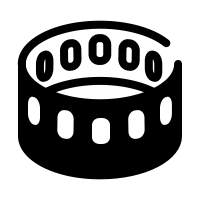
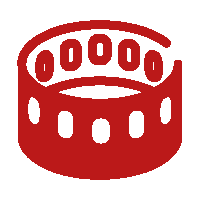
button color on equalizer animation

diff --git a/src/lib/components/playlist/playlist.jsx b/src/lib/components/playlist/playlist.jsx
@@ -13,7 +13,7 @@ class Playlist extends React.Component {
        return (
          <div className="playlistScreen" style={{left: '0vw', transition: 'left 0.5s'}}>
            <div className="playlistHeader">
-             <img src="images/animationChange.png" onClick={ this.props.chnageAnimation } />
+             <img src="images/animationChange.png" onClick={ this.props.changeAnimation } />
              <ClearPlaylist styleImg={{width: '4vw', height: '5vh'}} clickHandler={ this.props.clearPlaylistClickHandler } />
            </div>
            <PlaylistContent playlist={ this.props.playlist } clickHandler= { (i, bool)=>{
@@ -37,7 +37,7 @@ class Playlist extends React.Component {
       <div className="playlistScreen" style={{left: '-100vw', transition: 'left 0.5s'}}>
         <div className="playlistHeader">
           <p className="playlistText">Playlist</p>
-          <img src="images/animationChange.png" onClick={ this.props.chnageAnimation } />
+          <img src="images/animationChange.png" onClick={ this.props.changeAnimation } />
           <ClearPlaylist styleImg={{width: '4vw', height: '5vh'}} clickHandler={ this.props.clearPlaylistClickHandler } />
         </div>
         <PlaylistContent playlist={ this.props.playlist } clickHandler= { (i, bool)=>{

diff --git a/src/lib/components/front/playPauseButton.jsx b/src/lib/components/front/playPauseButton.jsx
@@ -9,6 +9,8 @@ class PlayPauseButton extends React.Component {
     }
     this.playSrc = 'images/play.png';
     this.pauseSrc = 'images/pause.png';
+    this.playSrcWhite = 'images/playWhite.png';
+    this.pauseSrcWhite = 'images/pauseWhite.png';
   }
   componentWillReceiveProps(nextProps){
     this.setState({playing: nextProps.playing});
@@ -23,6 +25,16 @@ class PlayPauseButton extends React.Component {
     this.props.playingPassFunc(!this.state.playing);
   }
   render(){
+    if (window.animationNumber === 2){
+      if (this.state.playing){
+        return(
+          <img className = 'playPauseButton' src={ this.pauseSrcWhite } onClick={ this.clickHandler }/>
+        )
+      }
+      return(
+        <img className = 'playPauseButton' src={ this.playSrcWhite } onClick={ this.clickHandler } />
+      )
+    }
     if (this.state.playing){
       return(
         <img style={{filter: `hue-rotate(${this.props.filterDeg}deg)`}} className = 'playPauseButton' src={ this.pauseSrc } onClick={ this.clickHandler }/>

diff --git a/src/lib/components/frontComps.jsx b/src/lib/components/frontComps.jsx
@@ -202,7 +202,7 @@ class FrontComps extends React.Component {
                   } catch(e){}
                 }
               }
-              chnageAnimation = {
+              changeAnimation = {
                 ()=>{
                   let nextAnimation = (this.state.animationNumber+1)%3;
                   window.animationNumber = nextAnimation;
@@ -320,7 +320,14 @@ class FrontComps extends React.Component {
               }
             }/>
         </div>
-        <VolumeControl filterDeg={ this.globalFilterDig } />
+        <VolumeControl filterDeg={
+          (()=>{
+            if (this.state.animationNumber === 2)
+              return 0;
+            return (this.globalFilterDig);
+          })()
+        }
+        />
       </div>
     )
   }

diff --git a/src/lib/components/front/shuffle.jsx b/src/lib/components/front/shuffle.jsx
@@ -4,6 +4,12 @@ export const Shuffle = ({show, clickHandler, shuffle, filterDeg}) => {
   if (show) {
     return (<div></div>);
   }
+  if (shuffle && window.animationNumber === 2){
+    return (
+      <img className='shuffle'
+       src='images/shuffle1red.png' onClick={ clickHandler }></img>
+    )
+  }
   if (shuffle){
     return (
       <img className='shuffle' style={{filter: `hue-rotate(${filterDeg}deg)`}}

diff --git a/src/lib/components/front/replay.jsx b/src/lib/components/front/replay.jsx
@@ -4,6 +4,12 @@ export const Replay = ({show, clickHandler, replay, filterDeg}) => {
   if (show) {
     return (<div></div>);
   }
+  if (replay && window.animationNumber === 2){
+    return (
+      <img className='replay'
+       src='images/replay1red.png' onClick={ clickHandler }></img>
+    )
+  }
   if (replay){
     return (
       <img className='replay' style={{filter: `hue-rotate(${filterDeg}deg)`}}
